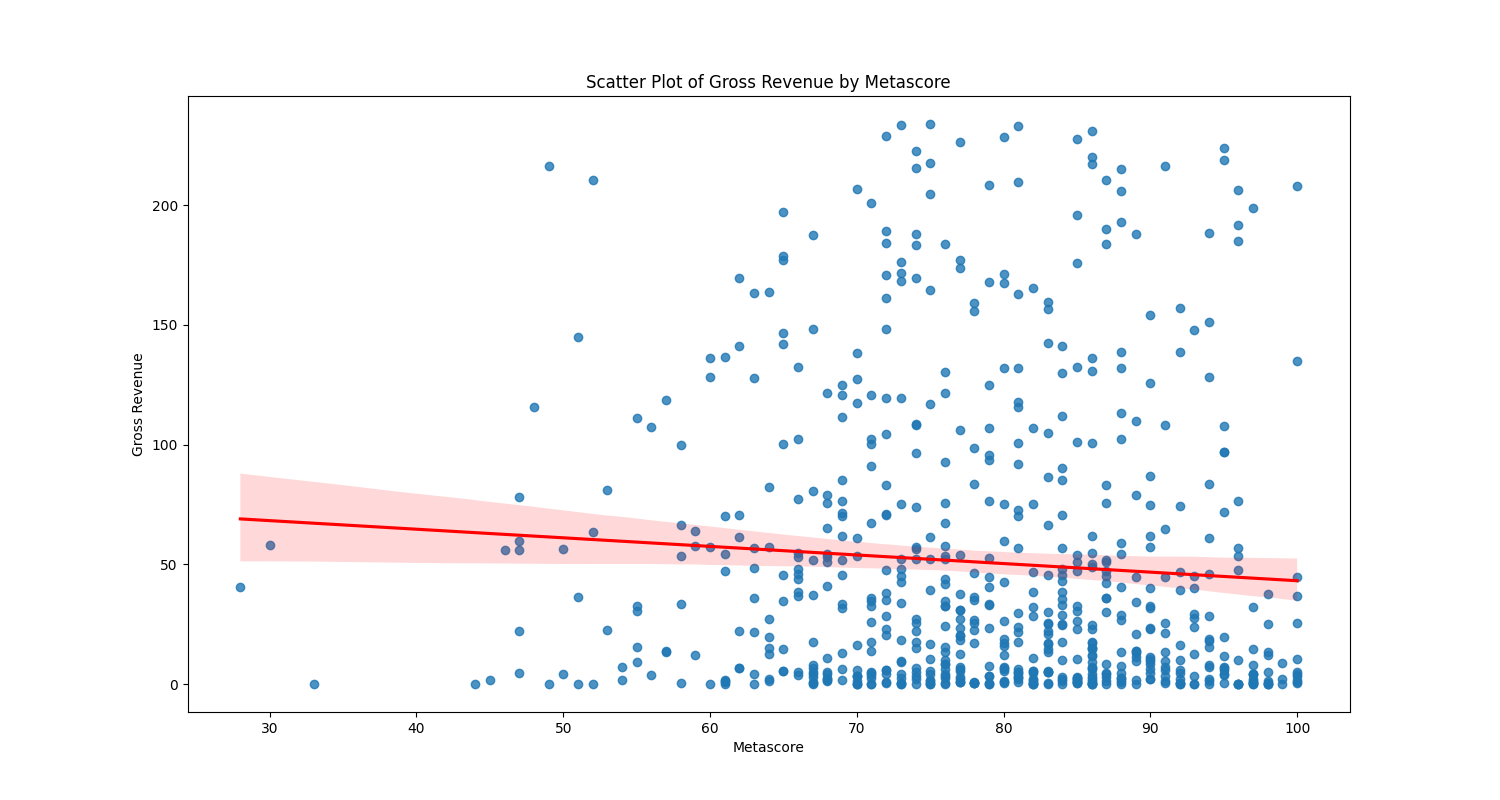
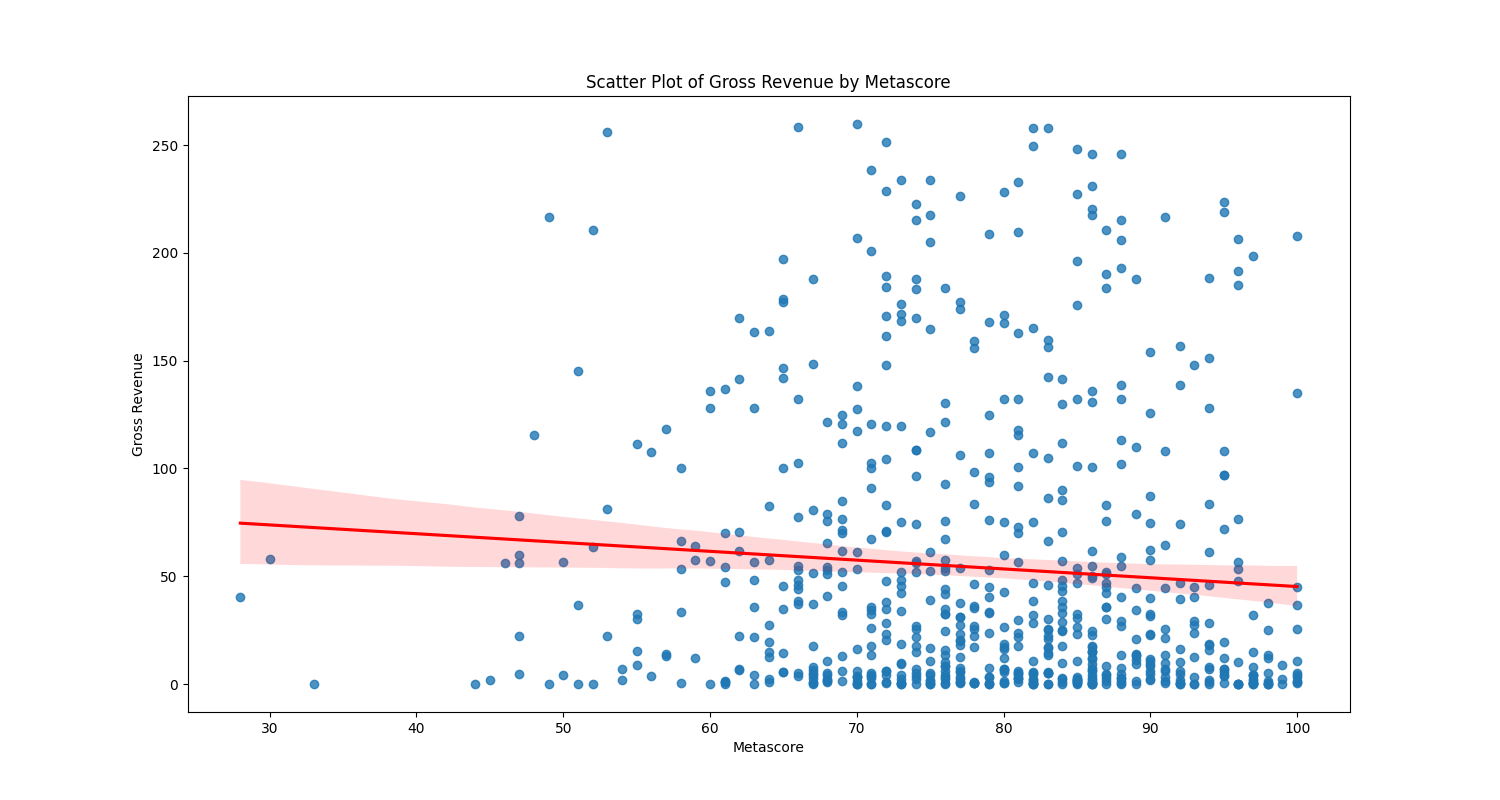
more

diff --git a/Corrlegram.py b/Corrlegram.py
@@ -1,7 +1,16 @@
 import pandas as pd
+import numpy as np
 import seaborn as sns
 import matplotlib.pyplot as plt
+from scipy import stats
 
+def density_estimation(yMin,yMax,xMin,xMax,m1, m2, bandwidth=0.1):
+    X, Y = np.mgrid[xMin:xMax:100j, yMin:yMax:100j]
+    positions = np.vstack([X.ravel(), Y.ravel()])
+    values = np.vstack([m1, m2])
+    kernel = stats.gaussian_kde(values, bw_method=bandwidth)
+    Z = np.reshape(kernel(positions).T, X.shape)
+    return X, Y, Z
 
 df = pd.read_csv('/home/quinn/DataSci/archive/Top_1000_IMDb_movies_New_version.csv')
 # Clean data by removing commas
@@ -9,7 +18,7 @@ df['Votes'] = df['Votes'].str.replace(',', '').astype(float)
 df['Gross'] = pd.to_numeric(df['Gross'].str.replace(',', ''), errors='coerce')
 
 # Drop rows with no data
-df_cleaned = df.dropna(subset=['Gross'])
+df_cleaned = df.dropna(subset=['Gross', 'Metascore of movie'])
 # just numeric colums
 numeric_columns = ['Watch Time', 'Movie Rating', 'Metascore of movie', 'Gross', 'Votes']
 
@@ -38,6 +47,46 @@ plt.title('Scatter Plot of Gross Revenue by Metascore')
 plt.savefig('/home/quinn/DataSci/ScatterMetaGross.png')
 plt.clf()
 
+#Density of Movie rating and Gross income
+xMin, xMax = 7,10
+yMin, yMax = 0,300
+plt.figure(figsize=(10,8))
+X, Y, Z = density_estimation(yMin, yMax,xMin,xMax,df_cleaned['Movie Rating'],df_cleaned['Gross'],.15)
+cp = plt.contourf(X, Y, Z, levels=15, cmap='viridis')
+plt.colorbar(cp, label='Density')
+plt.title('Density Contour Map of Movie Ratings vs Gross Income')
+plt.xlabel('Movie Rating')
+plt.ylabel('Gross Income (Millions USD)')
+plt.grid(True)
+plt.savefig('/home/quinn/DataSci/DensityRatingGross.png')
+plt.clf()
+
+#Density of Metascore and Gross
+xMin, xMax = 70,100
+
+plt.figure(figsize=(10,8))
+X, Y, Z = density_estimation(yMin, yMax,xMin,xMax,df_cleaned['Metascore of movie'],df_cleaned['Gross'],.21)
+cp = plt.contourf(X, Y, Z, levels=15, cmap='viridis')
+plt.colorbar(cp, label='Density')
+plt.title('Density Contour Map of Movie Ratings vs Gross Income')
+plt.xlabel('Metascore of movie')
+plt.ylabel('Gross Income (Millions USD)')
+plt.grid(True)
+plt.savefig('/home/quinn/DataSci/DensityMetascoreGross.png')
+plt.clf()
+
+
+
+plt.figure(figsize=(15, 8))
+sns.regplot(x='Movie Rating', y='Gross', data=df_cleaned,line_kws={"color": "red"})
+plt.xlabel('Movie Rating')
+plt.ylabel('Gross Revenue')
+plt.title('Scatter Plot of Gross Revenue by Movie Rating')
+plt.savefig('/home/quinn/DataSci/ScatterAudianceGross.png')
+plt.clf()
+
+
+
 plt.figure(figsize=(15, 8))
 sns.regplot(x='Metascore of movie', y='Gross', data=df_no_outliers,line_kws={"color": "red"})
 plt.xlabel('Metascore')
@@ -59,6 +108,7 @@ plt.xlabel('Metascore Category')
 plt.ylabel('Gross Revenue')
 plt.title('Box Plot of Gross Revenue by Binned Metascore')
 plt.savefig('/home/quinn/DataSci/BoxPlotMetaGross.png')
+plt.clf()
 
 
 
